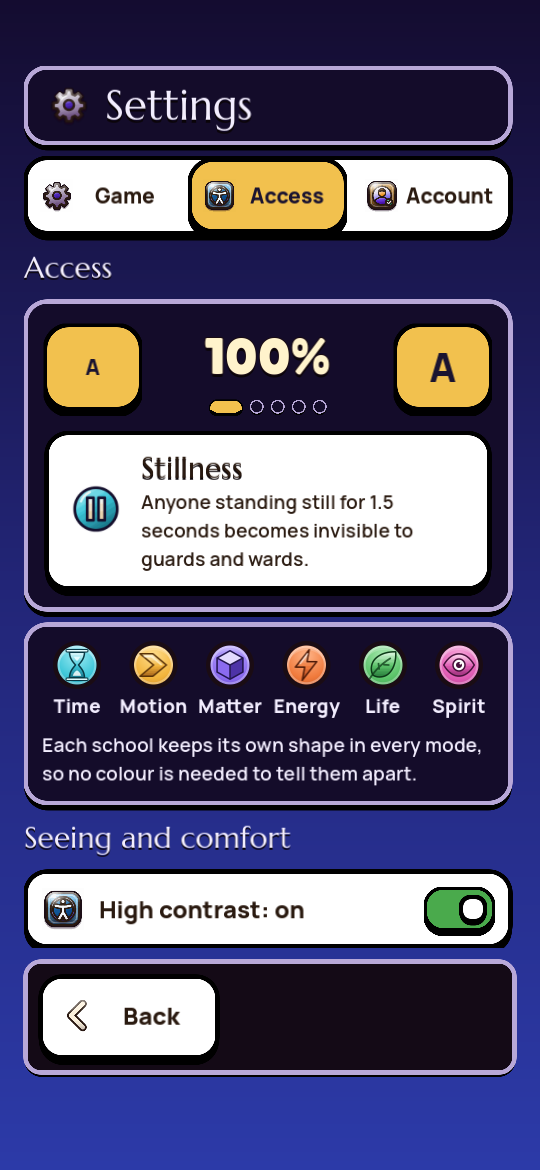
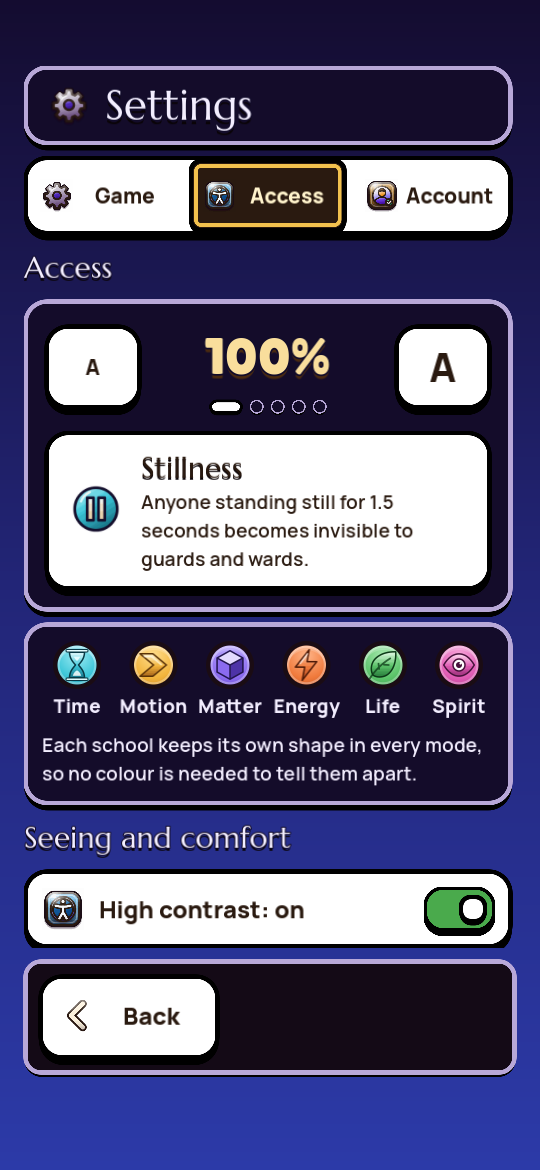
S3: settings self-check fixes, T2 stroke within the draw-call budget
The open tab on seg_on_light, the text-size As on parchment, the step
dot on plate, the T2 stroke on the title and headings, "100%" in
gold_top, and a two-line law sample at large text. The stroke's drop
has no outline of its own, which kept settings at 52 draw calls.
The four stills are re-rendered and checks.py passes every control.

Claude-Session: https://claude.ai/code/session_01SNkKxrGTeWurPkRy5fVrtk

diff --git a/docs/art/tracks/menu-screens.md b/docs/art/tracks/menu-screens.md
@@ -151,9 +151,9 @@ The budget shots' recorded draw calls for the character screen are 103, 80 and 1
 
 `client/scripts/settings_screen.gd` is built from the kit, after key frame 05 (`art/ui/keyframes/05-settings.png`):
 
-- **The head.** The settings mark and the title, on the kit's plate.
-- **The tabs.** Game, Access and Account are one strip of parchment, with the open tab on gold, each with the design's icon. When an icon and its word do not fit a third of the strip (at large text, or with a long word), the closed tabs keep only their icon and the open tab only its word, at twice the width. The screen reader still hears every word.
-- **The rows.** Each setting is a kit row or section (`KitPanels.row`, `KitPanels.section`):
+- **The head.** The settings mark and the title, on the kit's plate. The title wears the display stroke (kit-spec 2.2, T2): an ink outline and a hard drop. Unlike `KitNav.logo`'s, the drop has no outline of its own: an outlined drop costs each stroked label one more draw call, which took settings past its budget (55 against 52 at 100% and in high contrast).
+- **The tabs.** Game, Access and Account are one strip of parchment, each with the design's icon. The open tab is on the kit's chosen segment for parchment (`seg_on_light`: dark leather, cream words), so gold stays the main actions' alone (§21.8). When an icon and its word do not fit a third of the strip (at large text, or with a long word), the closed tabs keep only their icon and the open tab only its word, at twice the width. The screen reader still hears every word.
+- **The rows.** Each setting is a kit row or section (`KitPanels.row`, `KitPanels.section`). The group headings over the night wear the T2 stroke, a 1.5-point outline and a 2-point drop:
   - Steppers have the setting's icon in a well, its words over the kit's bar (`KitBar`), and − and + on leather.
   - Switches are whole rows framed on parchment. A row's words say On or Off, so the state never rests on colour alone (§20.8).
 - **The switch.** `client/scripts/screen_switch.gd` (`ScreenSwitch.make`) draws key frame 05's switch from the kit's materials alone:
@@ -162,9 +162,9 @@ The budget shots' recorded draw calls for the character screen are 103, 80 and 1
   
   It takes no taps; the row is the control.
 - **Text size.** §20.8's text size is key frame 05's card:
-  - a small A and a large A on gold, either side of the size in large figures;
-  - a dot for each step;
-  - a law's card in the chosen size, to read before leaving.
+  - a small A and a large A on parchment, either side of the size in large figures (gold_top, with a 2.5-point outline and the gold drop);
+  - a dot for each step, the current one on plate and the rest on dark plate;
+  - a law's card in the chosen size, to read before leaving. At large text its words stop at two lines, with an ellipsis, so the card does not fill the screen.
 - **Colour blindness.** The colour-blind card shows the six schools' marks on their coins with their names. There is no mode to choose, because each school keeps its own shape in every light (§20.8).
 - **The way back.** Back home is on the glass bar at the foot of the screen, lifted off its corner (`ScreenNav.CORNER_LIFT_POINTS`).
 - **The shot.** `client/tests/shots/screen_settings.gd` takes `TAB` (default `access`, the key frame's tab), `TEXT`, `LOCALE`, `HC` and `SCROLL`.
@@ -179,18 +179,18 @@ The stills are in `docs/art/shots/menu-screens/`. Each was rendered with the com
 [env] FIT=1 RECORD=1 bash tools/render/shoot.sh client/tests/shots/screen_settings.gd <still>
 ```
 
-| Still | Env | Draw calls | Record |
-|---|---|---:|---|
-| `settings-100.png` | – | 62 | `.shot.json`, 12 controls |
-| `settings-200-pt_BR.png` | `TEXT=200 LOCALE=pt_BR` | 36 | `.shot.json`, 8 controls |
-| `settings-pt_BR.png` | `LOCALE=pt_BR` | 56 | `.shot.json`, 10 controls |
-| `settings-hc.png` | `HC=1` | 62 | `.shot.json`, 12 controls |
+| Still | Env | Record |
+|---|---|---|
+| `settings-100.png` | – | `.shot.json`, 12 controls |
+| `settings-200-pt_BR.png` | `TEXT=200 LOCALE=pt_BR` | `.shot.json`, 9 controls |
+| `settings-pt_BR.png` | `LOCALE=pt_BR` | `.shot.json`, 10 controls |
+| `settings-hc.png` | `HC=1` | `.shot.json`, 12 controls |
 
 The before still is `before-settings-100.png`, from Part 1.
 
 `python3 tools/ui_gate/checks.py all` on the records:
 
-- **value-steps** passes every control. At 100% text, ΔL* is 80 on the tabs, 58 on the two As, 66 on the high-contrast row and 84 on Back. At 200% in pt_BR it is 59 to 83. In high contrast it is 74 to 96.
+- **value-steps** passes every control. At 100% text, ΔL* is 78 on the tabs, 76 on the two As, 66 on the high-contrast row and 84 on Back. At 200% in pt_BR it is 51 to 83. In high contrast it is 74 to 96.
 - **hud-share** passes, at 0.
 - **hierarchy** reads N/A: settings has no primary (`checks.py`). The second level passes.
 
@@ -198,8 +198,16 @@ The before still is `before-settings-100.png`, from Part 1.
 
 `tools/ui_bake/guard.sh`: OK. The budget shots (`screen_meta.gd`, `SCREEN=settings`, on the opening Game tab) read 46, 38 and 46 draw calls for settings at 100%, 200% and high contrast, against 52, 47 and 52 recorded. These falls are for K1 or the lead to `--record`. No word is below 4.5:1.
 
+### The advisory self-check, and the fixes
+
+Before the gate request, an advisory self-check against the gate's three items (one isolated judge per item, on the stills of 1b22adc4) passed 2 of 6 qualities. What it found, and what changed in `settings_screen.gd`:
+
+- **Display type, at 100%.** The group headings had no ink outline, unlike the key frame's, and the "100%" read flat. The headings and the title now wear the T2 stroke; "100%" is gold_top with a 2.5-point outline and the gold drop.
+- **Display type and hierarchy, at 200% in pt_BR.** The law sample filled most of the screen, and its last line was cut. Its words now stop at two lines with an ellipsis.
+- **Colour roles and value, in high contrast.** The open tab, the two As and the current step's dot were gold, beside the main actions' gold (§21.8). The open tab is now the kit's chosen segment for parchment, and the current dot plate. The As went to leather first, but leather on the violet card reads ΔL* 8 (`checks.py value-steps` fails it in en and pt_BR), so they are on parchment, as the tabs and the switch rows: ΔL* 76, and 95 in high contrast.
+
 ### What is still worse than before
 
 - **The tab and back words.** Key frame 05 sets them in capitals. The screen keeps the kit's sentence case (`Tokens.type_role`). Capitals would be a change to the kit's type roles, which is K1's work.
 - **The shapes in pt_BR.** At 100% text, the longer Portuguese names (Movimento, Matéria) put the six coins three to a line, not the key frame's six in one row.
-- **The law sample at 200% text.** At this size the sample card fills most of the opening frame, so the colour-blind card and the switches are below the fold (`SCROLL`). Its words are the content's, and they are English under pt_BR ("Stillness", from `content/ruleborn.json`), as on the character screen. This is not this task's work.
+- **The law sample at 200% text.** At this size its words stop at two lines with an ellipsis, so the whole law is read at 100% only. The colour-blind card is cut at the dock in the opening frame, and the switches are below the fold (`SCROLL`); the list scrolls. Its words are the content's, and they are English under pt_BR ("Stillness", from `content/ruleborn.json`), as on the character screen. This is not this task's work.

diff --git a/docs/progress/S3.md b/docs/progress/S3.md
@@ -4,7 +4,7 @@
 - Progress: 0 of 3 tasks merged; 2 ready; the gate passed "settings at 100% text" (advisory).
 - Done: the character screen on the kit (Part 2 of `docs/art/tracks/menu-screens.md`), with FIT at 100% and 200% text, in en and pt_BR and in high contrast, and shot records named as key frame 04's. Before that, ScreenKit's `well` look draws the kit's own well skin; `ScreenMeter.bar` is the kit's `KitBar`, and `ScreenBox` draws no box. The settings still now has a record written from the same render (`docs/art/shots/menu-screens/shot_record.gd`).
 - Done (settings): the settings screen on the kit (Part 3 of `docs/art/tracks/menu-screens.md`), with `ScreenSwitch`, the text-size card, the colour-blind card and the tabs strip. The shot script is `client/tests/shots/screen_settings.gd`.
-- Next: the pre-check on the merge with main, then `gate_request` for P2-S3-settings's three items.
+- Next: the pre-check on the commit with the self-check's fixes, then `gate_request` for P2-S3-settings's three items.
 - Blocked by: nothing.
 - Owner decision needed: none.
 
@@ -12,28 +12,29 @@
 |---|---:|---|---|
 | P2-S3-screenkit: ScreenKit's materials through KitSkin | 3 | ready at cf4eecc2; gate passed at 2b220cc3 (advisory) | `docs/art/tracks/menu-screens.md`, `docs/art/shots/menu-screens/`, `docs/art/ui-quality/gate/verdicts/P2-S3-screenkit/2b220cc3.json` |
 | P2-S3-character: the character screen on the kit | – | ready at 6f6a3b15; gate 5 of 7 at 6f6a3b15 (advisory) | `docs/art/tracks/menu-screens.md` Part 2, `docs/art/shots/menu-screens/character-*` |
-| P2-S3-settings: the settings screen on the kit | 5 | working; checks pass, gate not yet requested | `docs/art/tracks/menu-screens.md` Part 3, `docs/art/shots/menu-screens/settings-*` |
+| P2-S3-settings: the settings screen on the kit | 5 | working; self-check fixes in, checks pass, gate not yet requested | `docs/art/tracks/menu-screens.md` Part 3, `docs/art/shots/menu-screens/settings-*` |
 
 ## Handoff
-- Last verified commit: 1b22adc4. This is the merge of main c1a4e151 into the branch. On it:
-  - the setup line (`rustup target add wasm32-unknown-unknown`, `pip install "gdtoolkit==4.*" "playwright==1.63.0"`) and `bash client/build.sh` both exit 0;
-  - `guard.sh` and the pre-check (`check_all.sh`) follow below.
-- Before the merge, at 97098358:
-  - `guard.sh` OK. Settings budget shots read 46, 38 and 46 draw calls, against 52, 47 and 52 recorded. These are falls, for K1 or the lead to `--record`.
-  - `check_screens.py` OK.
-  - `checks.py all` passes on the four settings records.
-  - The client tests not against the server pass, 382 ok. `python3 client/status.py` cannot start the server here, because the sim wasm is not built.
+- After the merge (1b22adc4), an advisory self-check on the three gate items passed 2 of 6 qualities. The fixes are on the screen's side only (`settings_screen.gd`), and are listed in track Part 3, "The advisory self-check, and the fixes":
+  - the open tab is on the kit's chosen segment (`seg_on_light`), the As on parchment, and the current step's dot on plate, so gold stays the main actions';
+  - the title and the group headings wear the T2 stroke, and "100%" is gold_top, outlined;
+  - at large text the law sample stops at two lines.
+- On the working tree of those fixes:
+  - the four stills re-rendered, every one `fit ok`;
+  - `checks.py all` passes every control on the four records (the As read ΔL* 76, and 95 in high contrast);
+  - the client tests, `check_screens.py` and `guard.sh` follow below, with the commit.
+- Before, at 97098358: `guard.sh` OK, the settings budget shots 46, 38 and 46 against 52, 47 and 52 recorded (falls, for K1 or the lead to `--record`). The setup line and `bash client/build.sh` exit 0 on 1b22adc4.
 - Done (settings), in 62c6c16d, 143a0cbb and 97098358:
   - `client/scripts/settings_screen.gd` is rebuilt on the kit after key frame 05. `client/scripts/screen_switch.gd` is new.
   - The shot script is `client/tests/shots/screen_settings.gd` (`TAB`, default `access`; `TEXT`, `LOCALE`, `HC`, `SCROLL`, `FIT=1`, `RECORD=1`).
-  - The stills and records are `docs/art/shots/menu-screens/settings-{100,200-pt_BR,pt_BR,hc}`. Every still prints `fit ok`. Draw calls read 62, 36, 56 and 62.
+  - The stills and records are `docs/art/shots/menu-screens/settings-{100,200-pt_BR,pt_BR,hc}`.
 - Requests:
   - S3-R6 (lead): the shot script and the `settings-*` stills join the task's files. Due 08:40Z. Default: they count as the task's files.
   - S3-R7 (AD): preview of the settings stills. Due 08:50Z. Default: the stills stand.
   - S3-R2, S3-R3, S3-R4 and S3-R5 are as before.
 - Half done: nothing.
 - Open hypotheses: key frame 05 sets the tabs and Back in capitals; the kit's type roles use sentence case (K1). The law sample's content is English under pt_BR (`content/ruleborn.json`).
-- Next step: run `run_checks.sh start` on the merge, then `wait` and `record`. Then set `gate_request` for the three items: settings at 100% text, settings at 200% text in pt_BR, and settings in high contrast.
+- Next step: run `run_checks.sh start` on the fix commit, then `wait` and `record`. Then set `gate_request` for the three items: settings at 100% text, settings at 200% text in pt_BR, and settings in high contrast.
 - Setup:
   - Render with `[TAB=access] [TEXT=200] [LOCALE=pt_BR] [HC=1] [SCROLL=n] FIT=1 RECORD=1 bash tools/render/shoot.sh client/tests/shots/screen_settings.gd <still>`.
   - Character: as before, with `screen_character.gd`.
@@ -49,3 +50,5 @@
 - Recording each tab segment as its own control: on the cream track, Stats and Compare read ΔL* 2, so value-steps fails them. Key frame 04 records the segmented row as one control, and so does `write_record`.
 - A missing locale in a shot script: `Settings.locale` defaults to "", and `Settings.apply()` then fails with "Locale cannot be an empty string". Default it to "en" in the shot.
 - The tabs at 100% en with a 32-point icon and an 8-point gap: "Account" needs 175 px of words in 170. Use a 22-point icon and a 4-point gap, and go compact below the icon, the gap and both margins.
+- Leather for the text-size As on the violet card: `checks.py value-steps` reads ΔL* 8 (0.8 steps of the 2 asked) in en and pt_BR. Parchment reads 76.
+- An outlined drop (`shadow_outline_size`) on the T2 stroke, as `KitNav.logo` draws it: each stroked label then needs one more glyph texture, so `budget_shots.py` reads settings at 55 draw calls against 52 recorded, at 100% and in high contrast (the Game tab has three stroked labels). A drop without its own outline reads 52.
